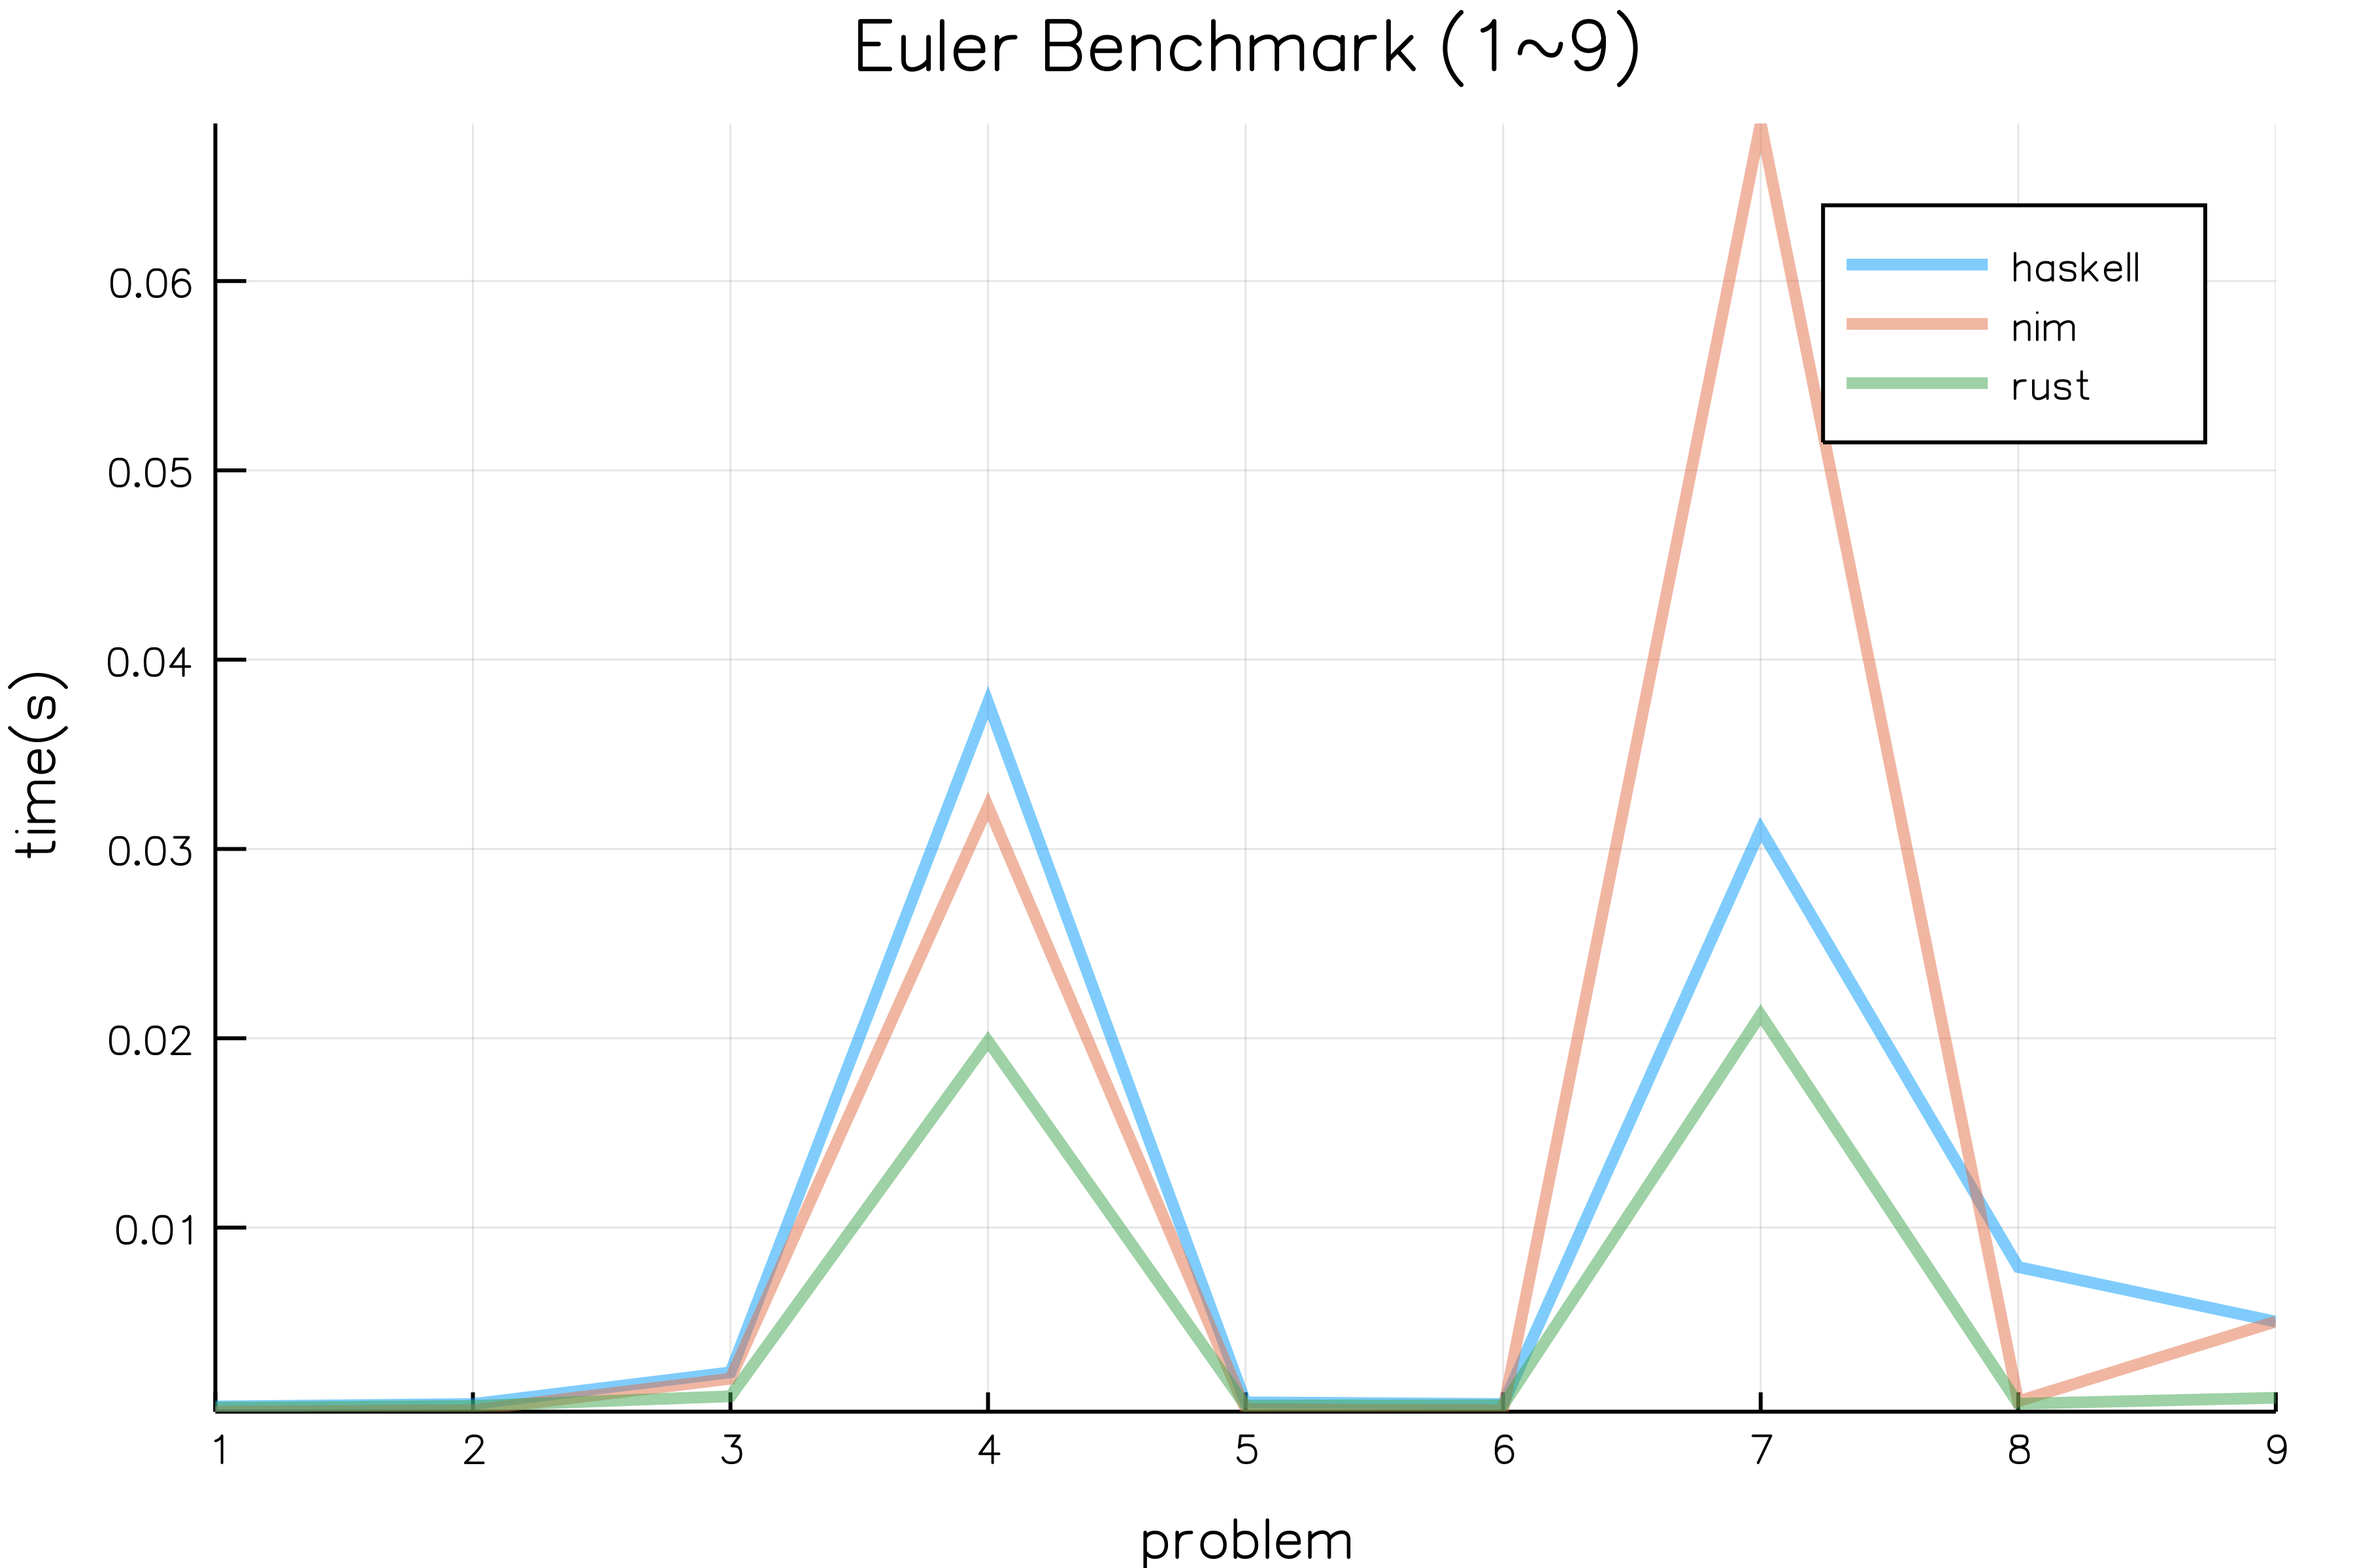
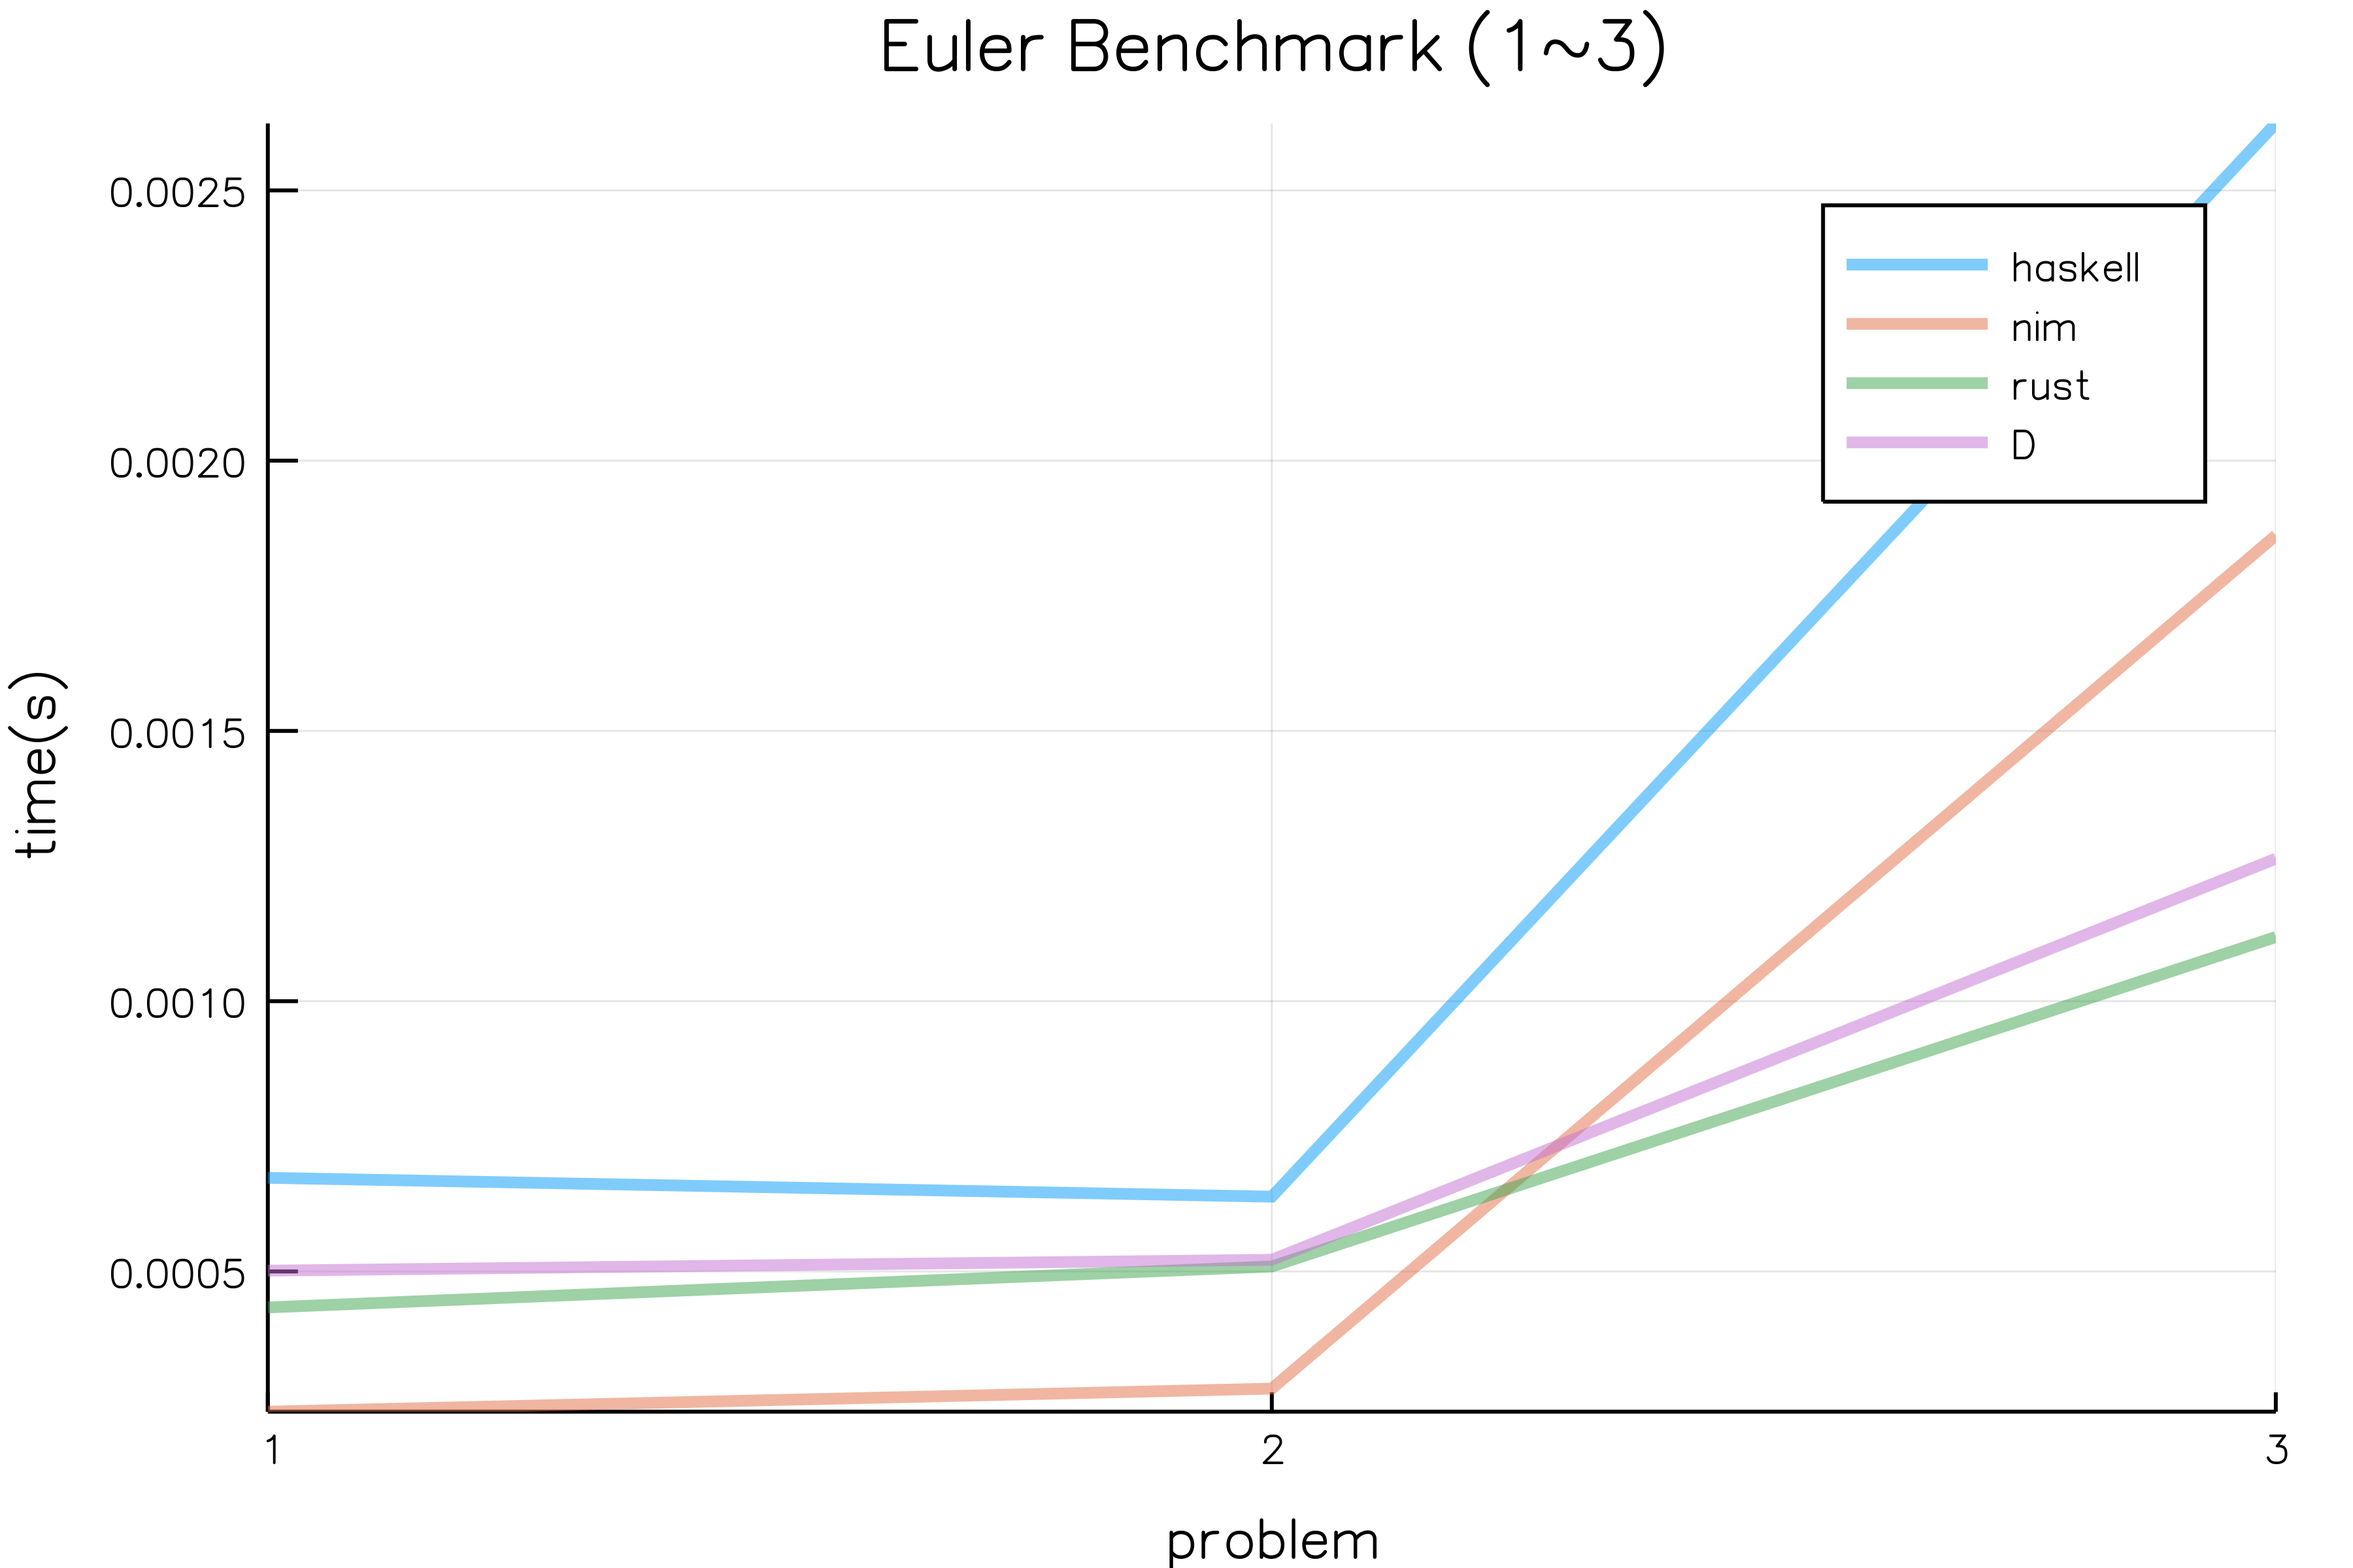
D Benchmark!
Former-commit-id: 897da31541aa4efe6e2d1f1a26ed92c438d6480c [formerly 0d96537c34759f7851d99db0611a8e26eb61c7fe]
Former-commit-id: 37923e98474ebde7accbb52dc48deea27e11bea2
Former-commit-id: 8eafbd91d8131ae891e5350d95b25c5b332b129b

diff --git a/Bench/euler003.md b/Bench/euler003.md
@@ -1,5 +1,6 @@
 | Command | Mean [ms] | Min…Max [ms] |
 |:---|---:|---:|
-| `./Rust/bin/euler_3` | 1.1 ± 0.4 | 0.5…2.7 |
-| `./Nim/bin/p003` | 2.0 ± 0.8 | 1.0…10.2 |
-| `./Haskell/bin/3` | 2.4 ± 0.5 | 1.8…4.5 |
+| `./D/bin/p003` | 1.3 ± 0.5 | 0.8…4.5 |
+| `./Rust/bin/euler_3` | 1.1 ± 0.4 | 0.7…3.3 |
+| `./Nim/bin/p003` | 1.9 ± 0.5 | 1.2…5.4 |
+| `./Haskell/bin/3` | 2.6 ± 0.6 | 1.9…5.2 |

diff --git a/Bench/euler001.md b/Bench/euler001.md
@@ -1,5 +1,6 @@
 | Command | Mean [ms] | Min…Max [ms] |
 |:---|---:|---:|
-| `./Rust/bin/euler_1` | 0.5 ± 0.4 | 0.0…2.6 |
-| `./Nim/bin/p001` | 0.3 ± 0.3 | 0.0…1.9 |
-| `./Haskell/bin/1` | 0.6 ± 0.3 | 0.2…2.3 |
+| `./D/bin/p001` | 0.5 ± 0.4 | 0.2…3.4 |
+| `./Rust/bin/euler_1` | 0.4 ± 0.3 | 0.2…2.2 |
+| `./Nim/bin/p001` | 0.2 ± 0.3 | 0.0…1.4 |
+| `./Haskell/bin/1` | 0.7 ± 0.3 | 0.3…2.1 |

diff --git a/Bench/euler002.md b/Bench/euler002.md
@@ -1,5 +1,6 @@
 | Command | Mean [ms] | Min…Max [ms] |
 |:---|---:|---:|
-| `./Rust/bin/euler_2` | 0.6 ± 0.4 | 0.2…7.5 |
-| `./Nim/bin/p002` | 0.4 ± 0.3 | 0.0…2.8 |
-| `./Haskell/bin/2` | 0.7 ± 0.3 | 0.3…2.1 |
+| `./D/bin/p002` | 0.5 ± 0.3 | 0.3…2.2 |
+| `./Rust/bin/euler_2` | 0.5 ± 0.3 | 0.2…2.0 |
+| `./Nim/bin/p002` | 0.3 ± 0.3 | 0.0…1.9 |
+| `./Haskell/bin/2` | 0.6 ± 0.3 | 0.3…2.3 |
